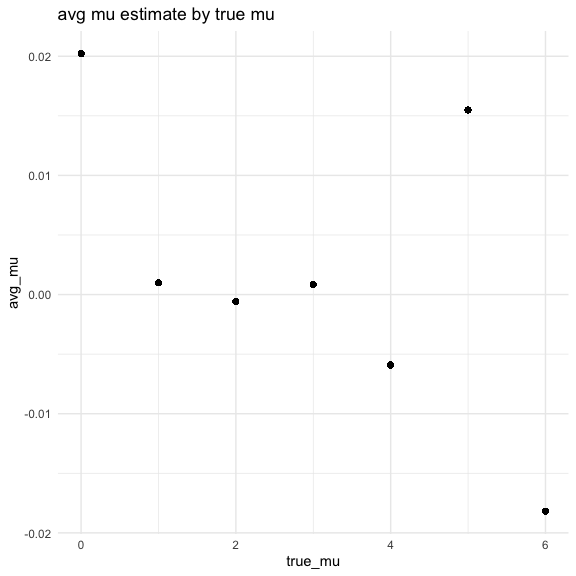
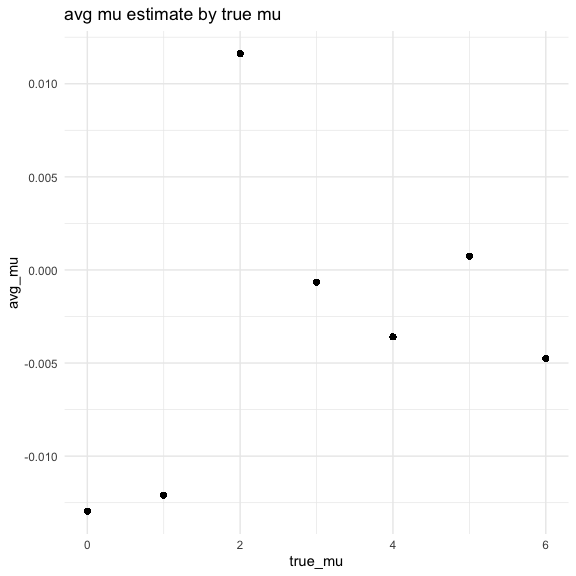
average of rejected nulls plot

diff --git a/p8105_hw5_np2619.md b/p8105_hw5_np2619.md
@@ -504,4 +504,31 @@ linear relationship between the average mu and true mu. This graph does
 not reflect this at all. With a normal sample size this large, we would
 expect to see the average average to be what is expected.
 
-####
+#### average estimates of rejected nulls
+
+``` r
+avg_reject = 
+  sim_results %>% 
+  filter(pvalue < 0.05) %>% 
+  group_by(true_mu) %>% 
+  mutate(
+    rejected = n(),
+    power = rejected / 5000,
+    avg_mu = mean(mean)) %>% 
+  ggplot(aes(x = true_mu, y = avg_mu)) +
+  geom_point() +
+  labs(
+    title = "average mu of rejected nulls",
+    xlab = "true mean",
+    ylab = "average mu"
+  )
+avg_reject
+```
+
+<img src="p8105_hw5_np2619_files/figure-gfm/unnamed-chunk-13-1.png" width="90%" />
+
+For this plot, we expect to see the average mu of the rejected nulls to
+increase as the true mu increases because the average of the samples
+should be around the inputted mu. Additionally, there would be a lot
+more datapoints for the higher true mu’s as they were more likely to be
+rejected. This would make an interesting density or violin plot.
